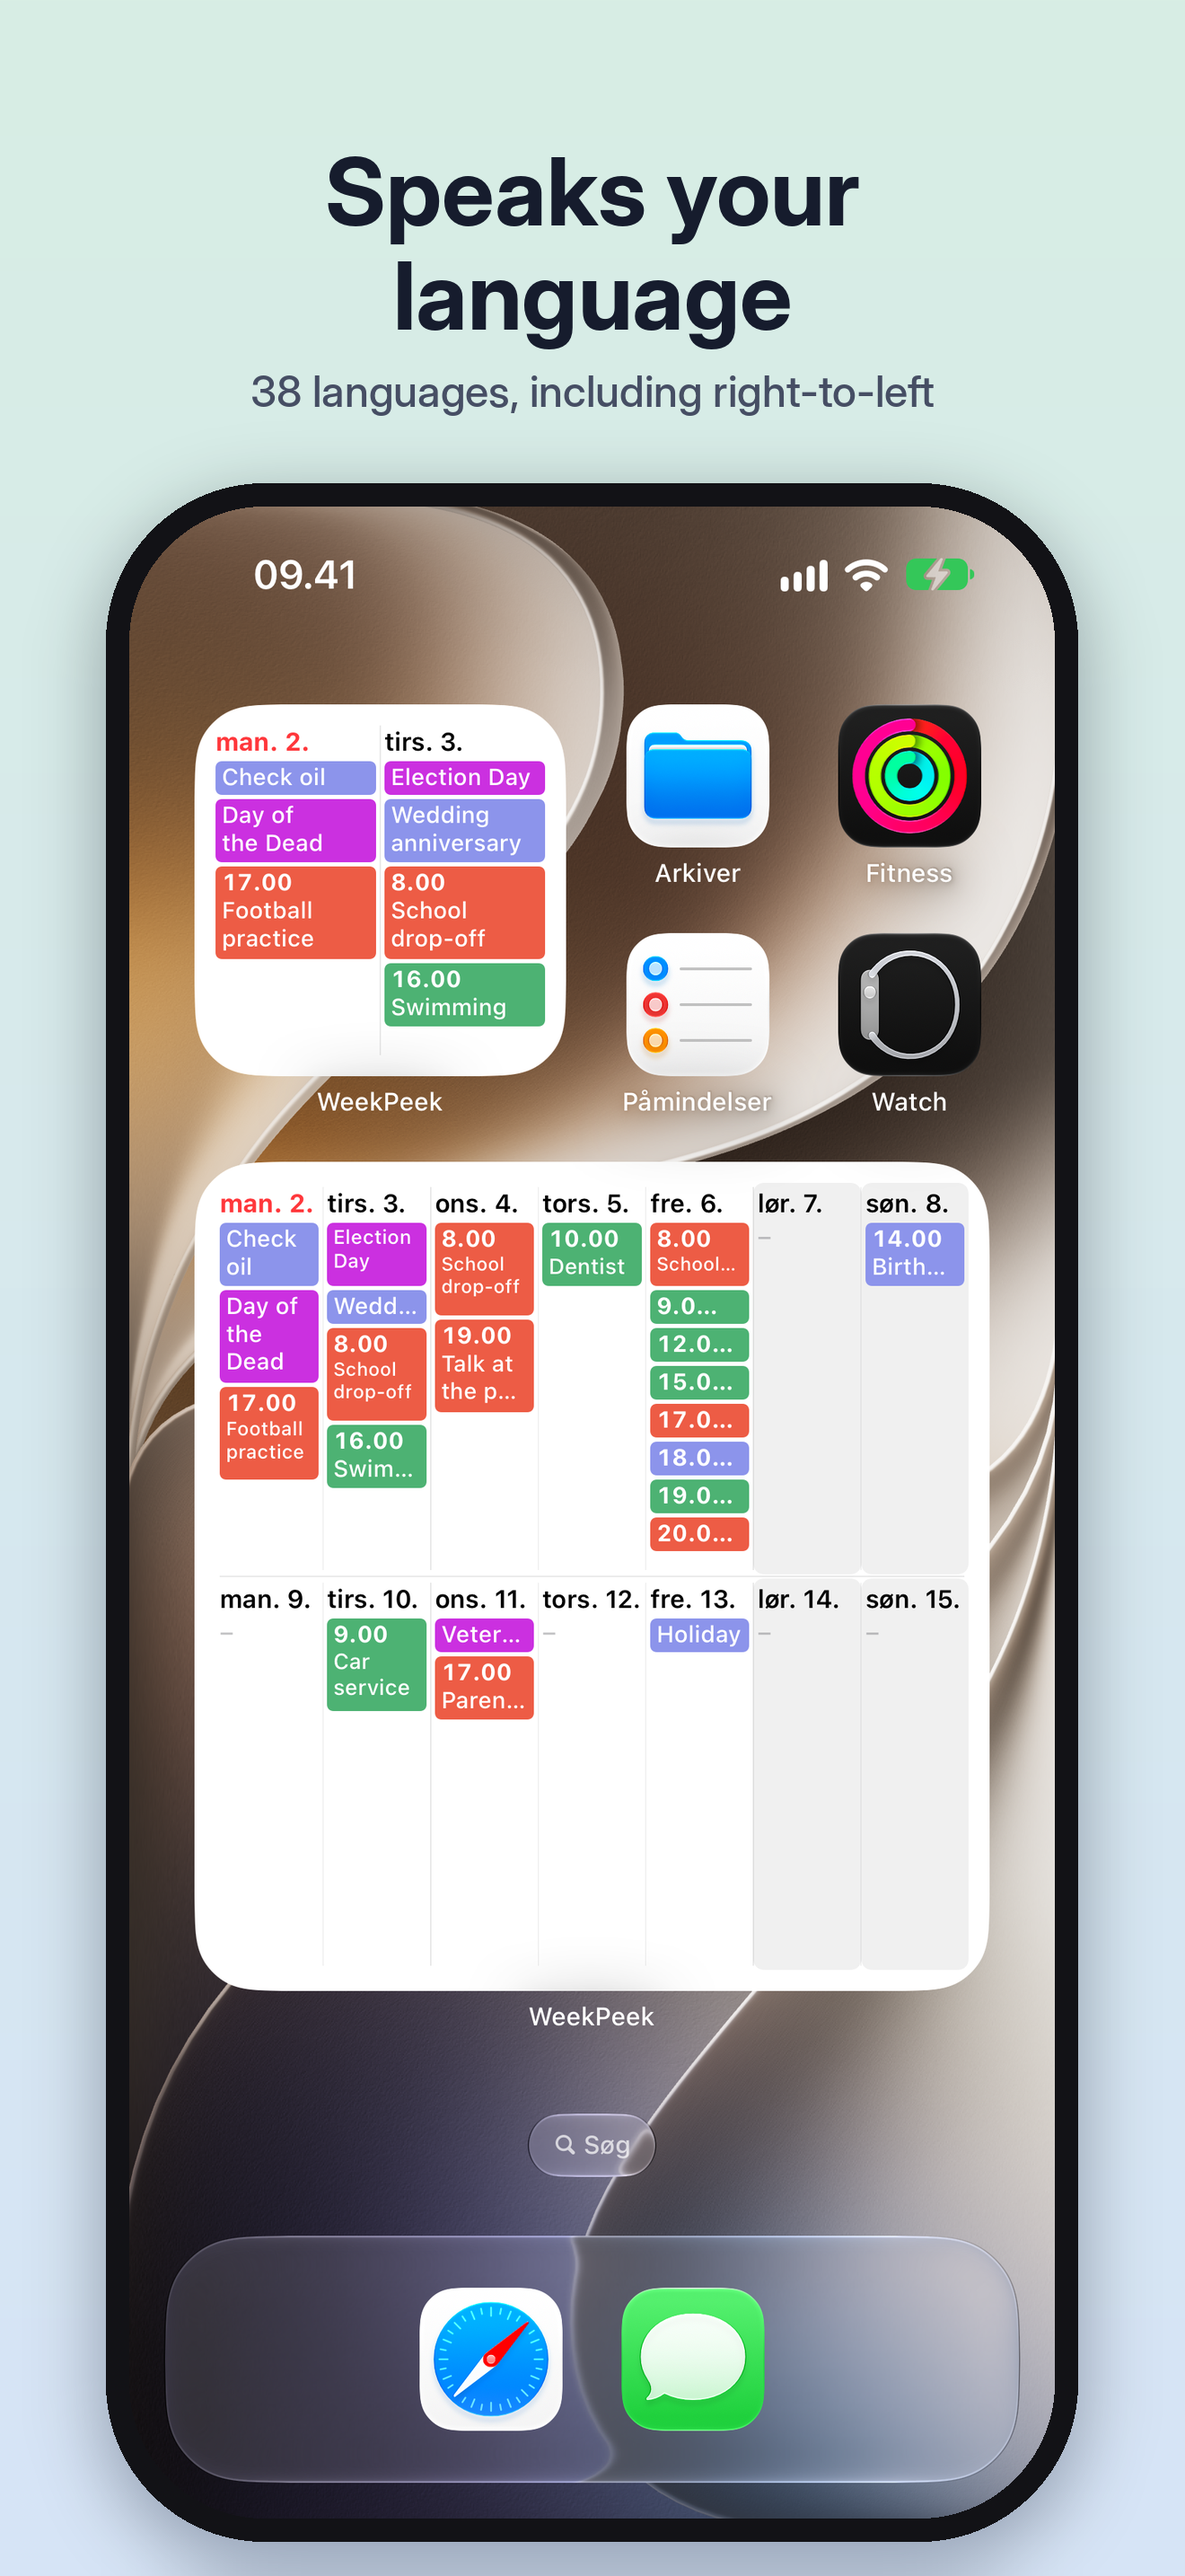
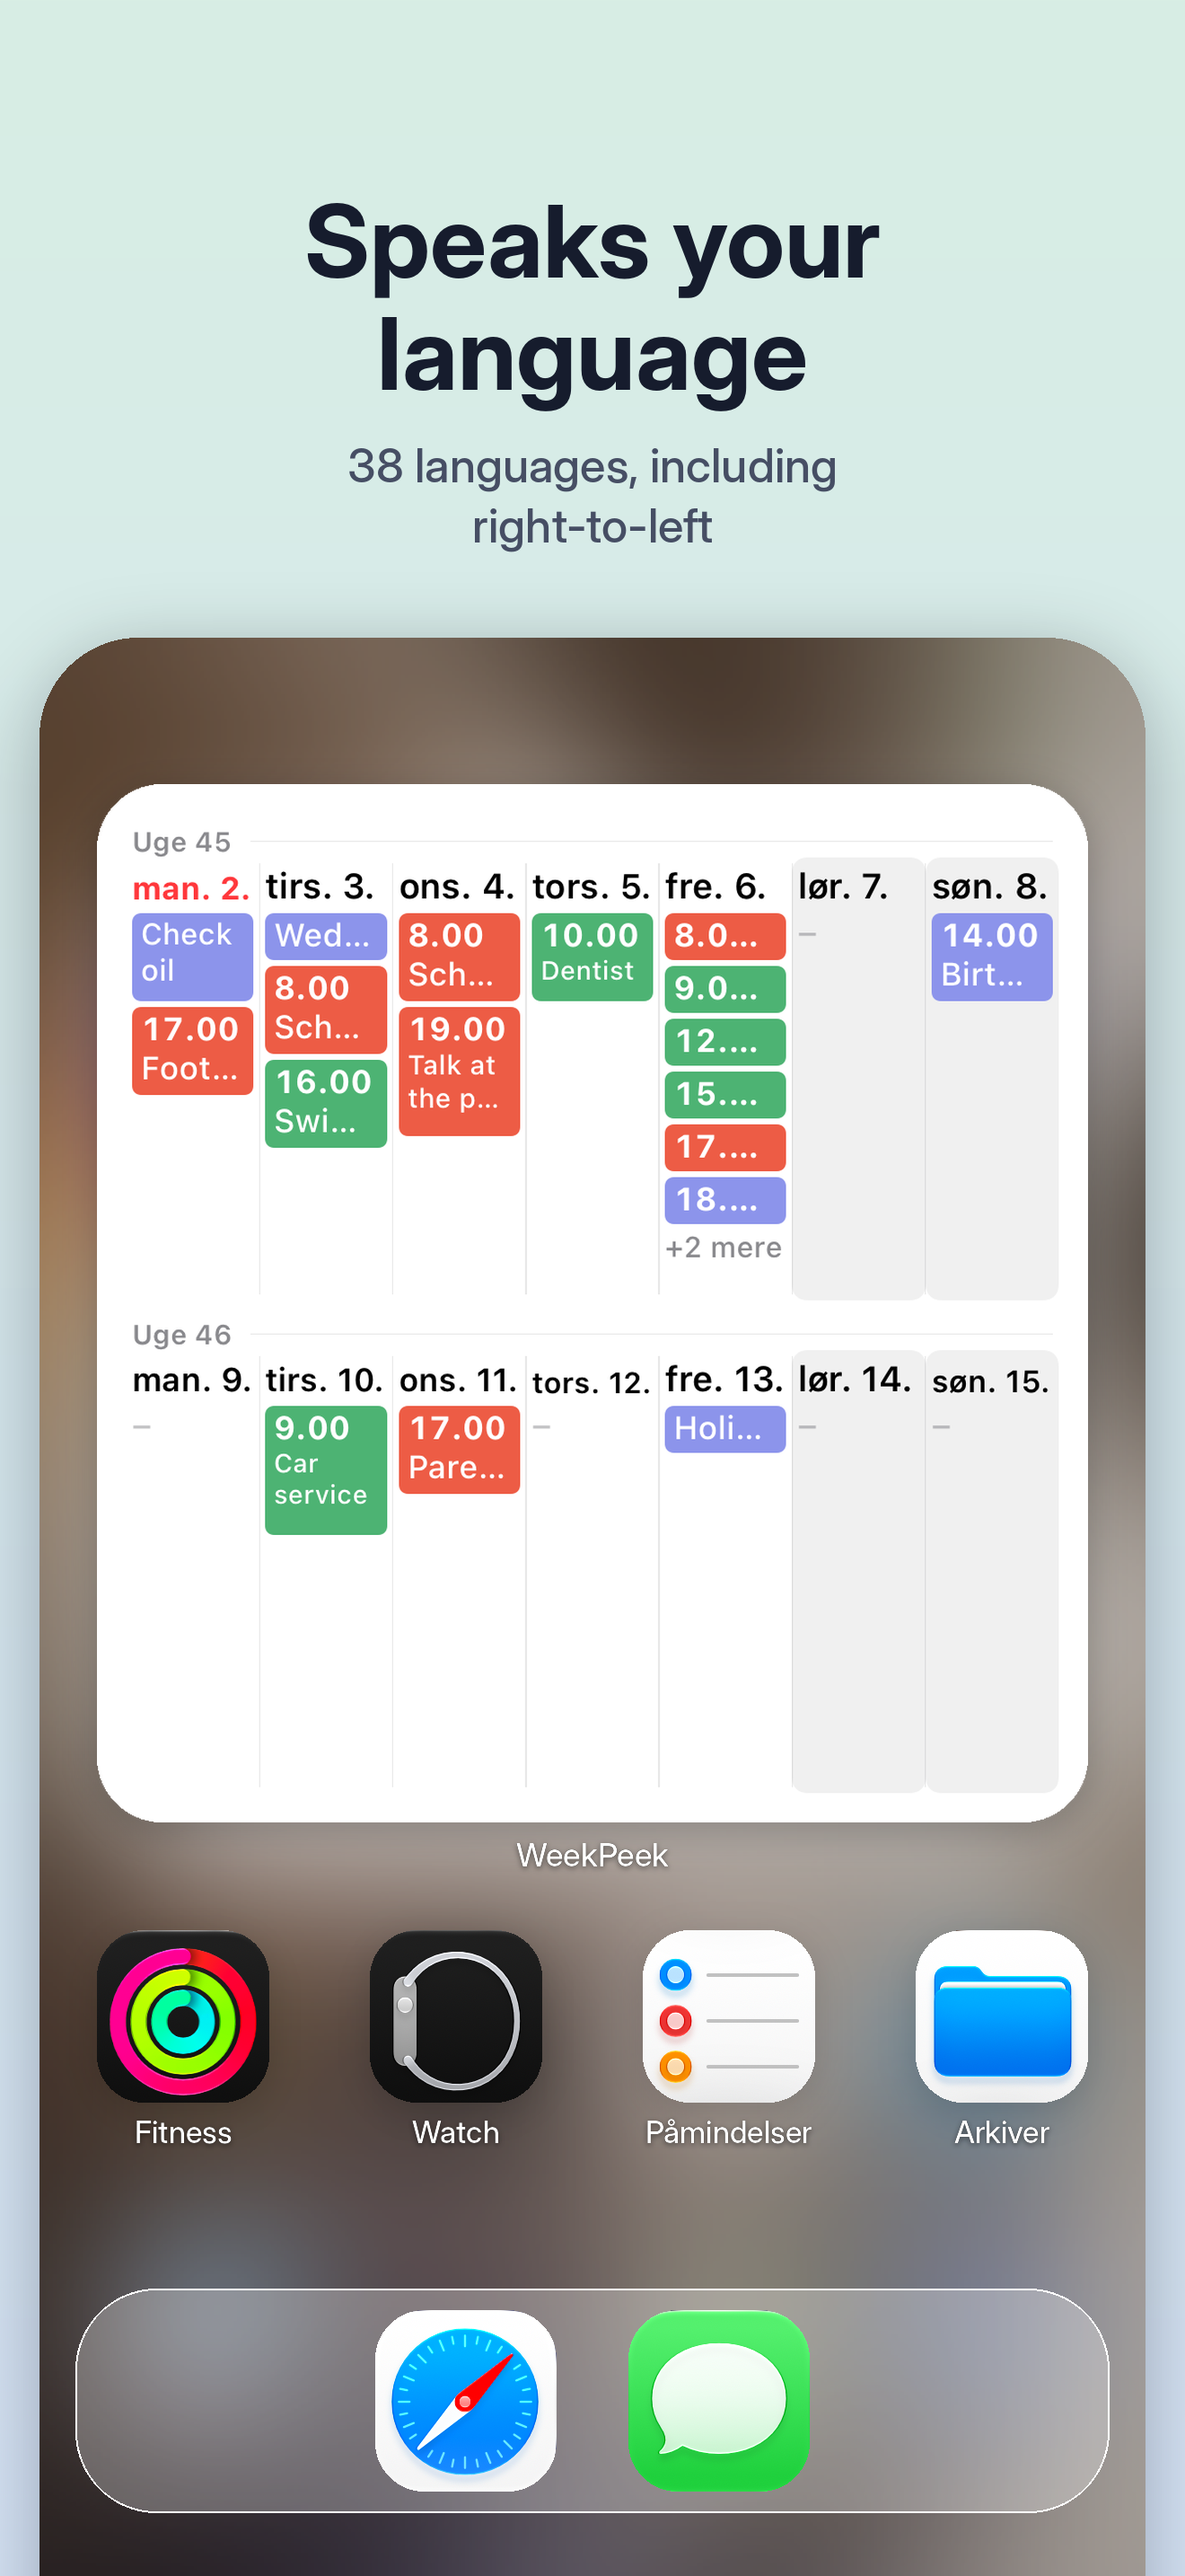
Show App Store screenshots on a Home Screen
Keep the headlines and pastel style, but place the widgets on the real
Simulator wallpaper with app icons, a dock and widget labels, so they
read as Home Screen widgets.

Claude-Session: https://claude.ai/code/session_01VAJTrQ5TsadPSz7xXKVai5

diff --git a/docs/app-store.md b/docs/app-store.md
@@ -76,9 +76,12 @@ Decision: **non-trader**. The app is free with no ads, in-app purchases or subsc
 
 ## Screenshots
 
-Ready in `docs/appstore/` (6.9" iPhone, 1320 × 2868). Real Home Screen screenshots from the iPhone 17 Pro Max Simulator, with sample events seeded by `Tests/SampleCalendarSeeder.swift` (plus the Simulator's built-in US holidays), framed with a headline:
+Ready in `docs/appstore/` (6.9" iPhone, 1320 × 2868, sample events only). Headline on a pastel background above a Home Screen: the real Simulator wallpaper (blurred), real app icons and dock, and the widgets from the render tests with their "WeekPeek" label.
 
 1. `1-week.png`: Your week at a glance (large widget)
-2. `2-sizes.png`: Every widget your own (small + large)
-3. `3-dark.png`: Made for dark mode too
+2. `2-styles.png`: Light, dark or tinted
+3. `3-yours.png`: Make every widget your own (stripe, 10 days, big text)
 4. `4-languages.png`: Speaks your language (Danish)
+5. `5-private.png`: Private by design (small widget beside app icons, dark widget)
+
+`Tests/SampleCalendarSeeder.swift` seeds the Simulator's calendar with the same sample events, for real Home Screen screenshots.
